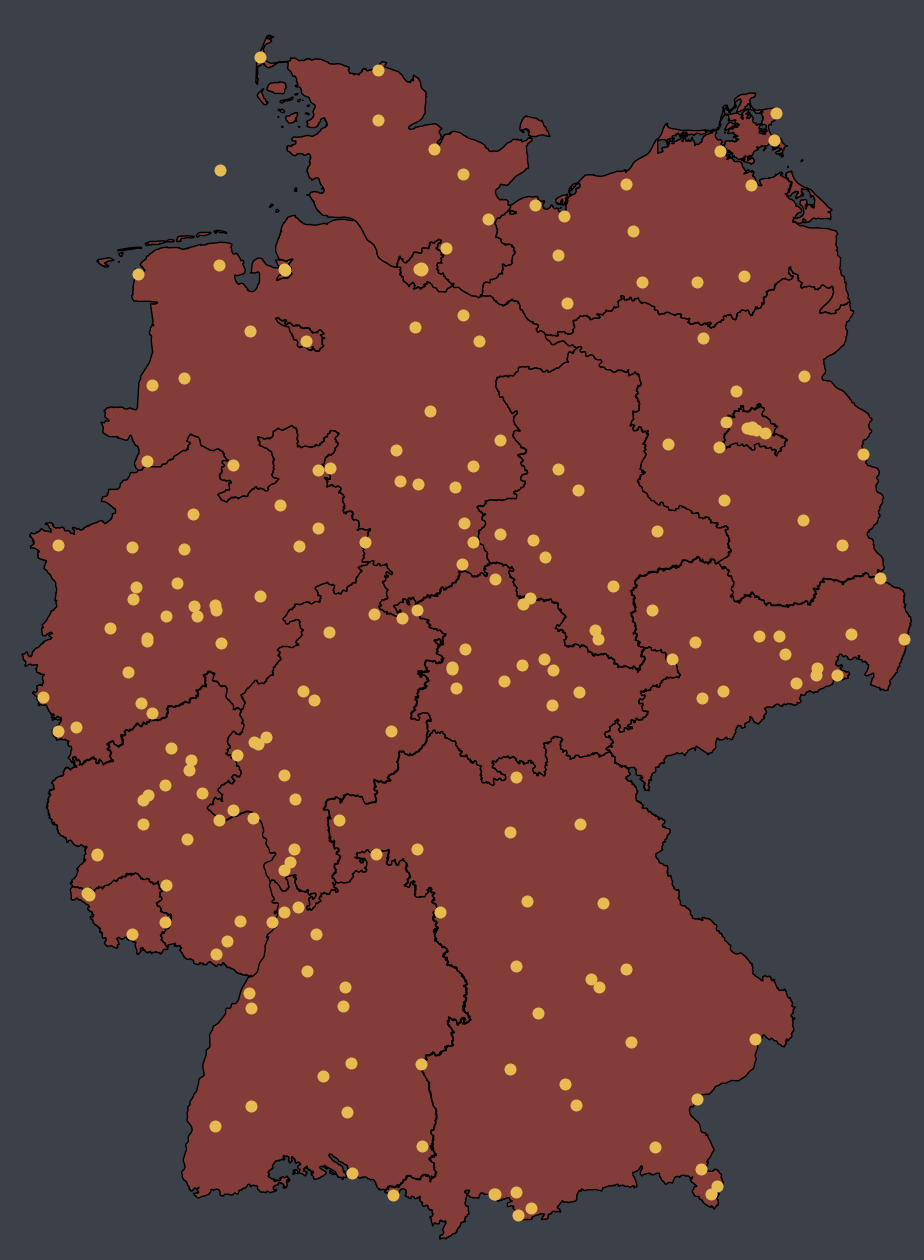
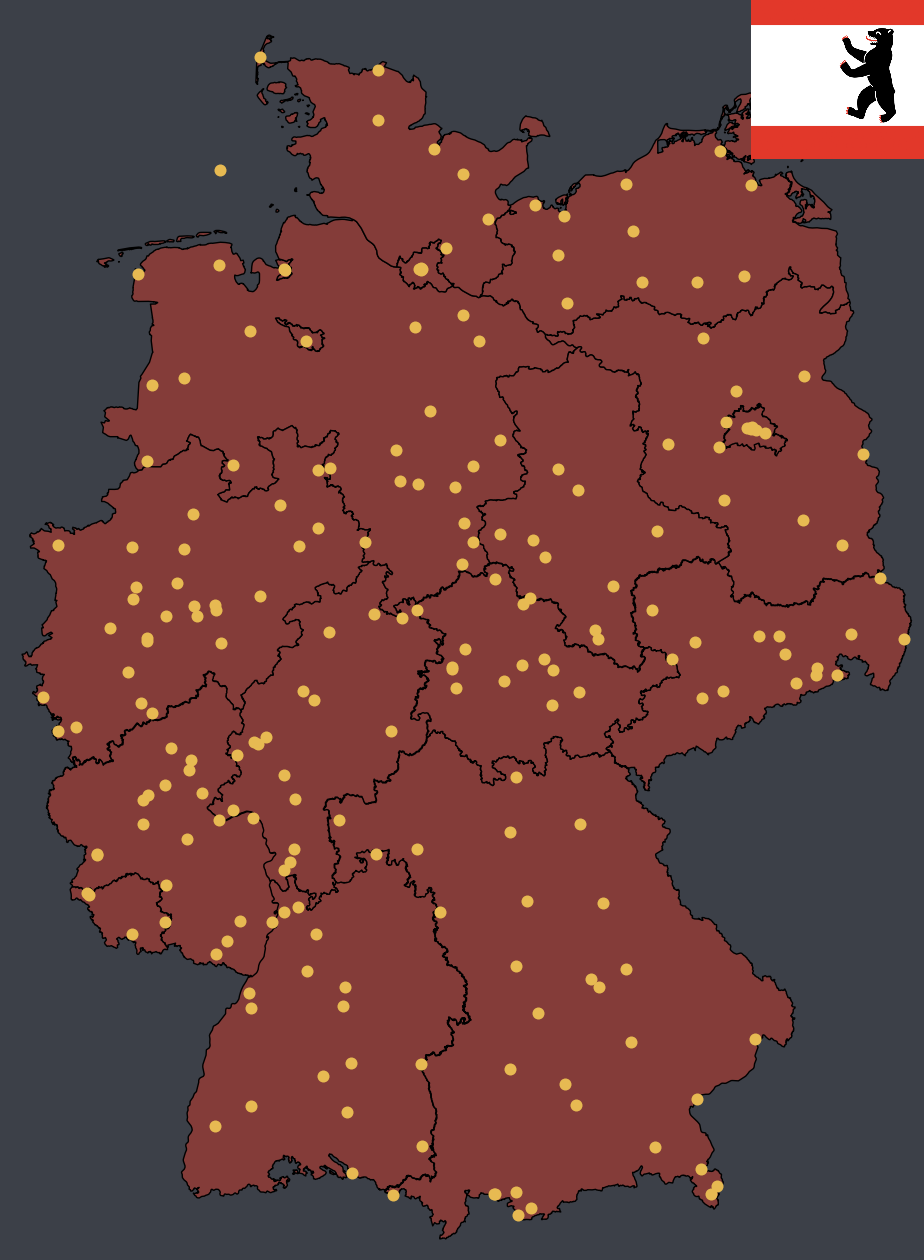
plot flag onto plot

Changed region(s): [[0.7879, 0.0, 1.0, 0.1238]]

diff --git a/plotting/plotting_manager.py b/plotting/plotting_manager.py
@@ -1,5 +1,7 @@
 import os
 import matplotlib.pyplot as plt
+import matplotlib.image as mpimg
+from matplotlib.offsetbox import OffsetImage, AnnotationBbox
 import geopandas as gpd
 
 from utils.file_utils import (
@@ -45,6 +47,7 @@ class PlotManager:
         self._plot_submaps(ax, current_date)
         self._plot_points(ax, current_date)
         self._plot_labels(ax, current_date)
+        self._plot_flags(ax)
         self._finalize_and_save_plot(fig, current_date)
 
     def _initialize_plot(self):
@@ -98,8 +101,20 @@ class PlotManager:
                 self.color_active
             )
 
+    def _plot_flags(self, ax):
+        #img = mpimg.imread(f"./{self.path}/submaps/BW.svg")
+
+        #files = os.listdir(f"{self.path}/submaps")
+        png_files = [f for f in os.listdir(f"{self.path}/submaps") if f.lower().endswith(".png")]
+        for f in png_files:
+            print(f)
+        img = mpimg.imread(f"./de/submaps/{png_files[0]}")
+
+        imagebox = OffsetImage(img, zoom=0.2)  # adjust size with zoom
+        ab = AnnotationBbox(imagebox, (0.95, 0.95), frameon=False, xycoords='axes fraction')
+        ax.add_artist(ab)
+
     def _finalize_and_save_plot(self, fig, current_date):
-        #plt.title(self.title, fontsize=25 * self.scale, color='#EAEAEA')
         plt.xlim(self.xlims)
         plt.ylim(self.ylims)
         plt.axis("off")

diff --git a/main.py b/main.py
@@ -10,7 +10,7 @@ from utils.file_utils import ensure_directory_exists
 
 
 # Set global variables, directories for map creation and site locations
-SCALE = 4
+SCALE = 1
 
 # US National Park Global Variables
 #PATH = "us"
